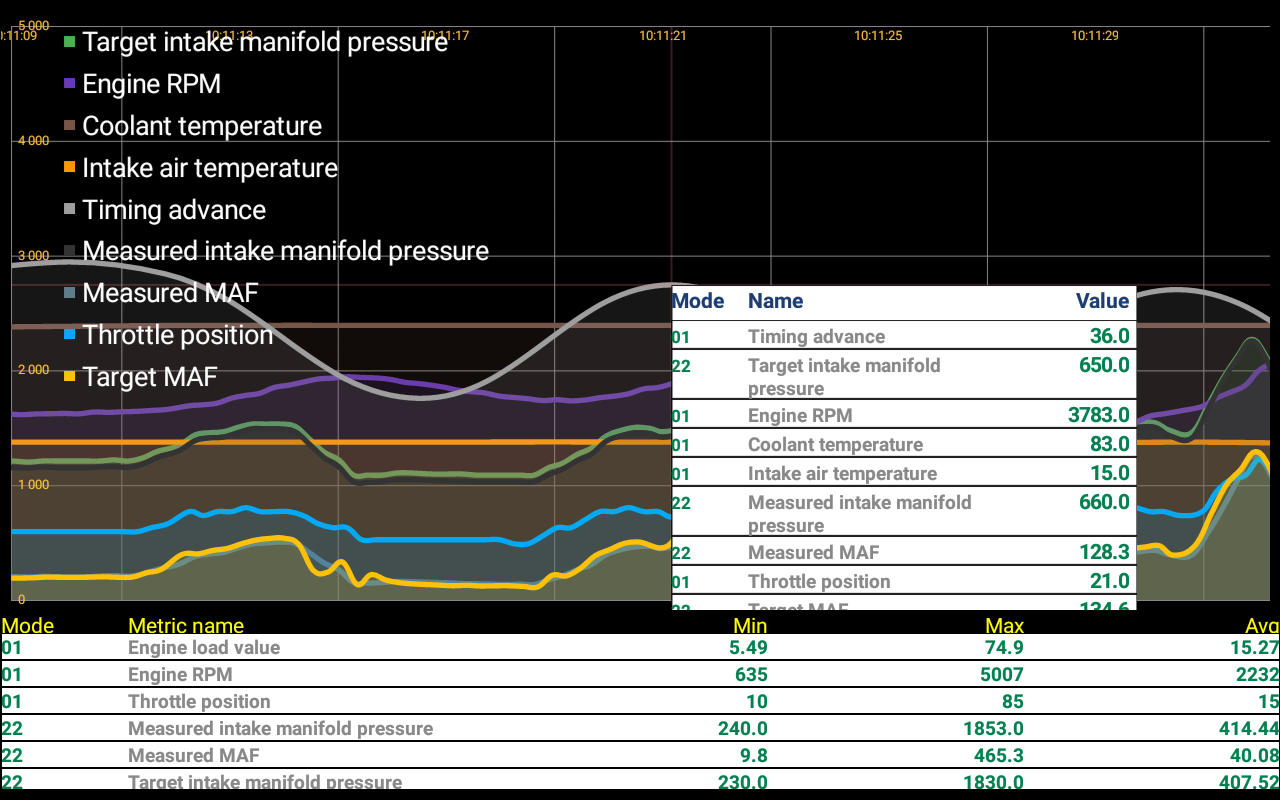
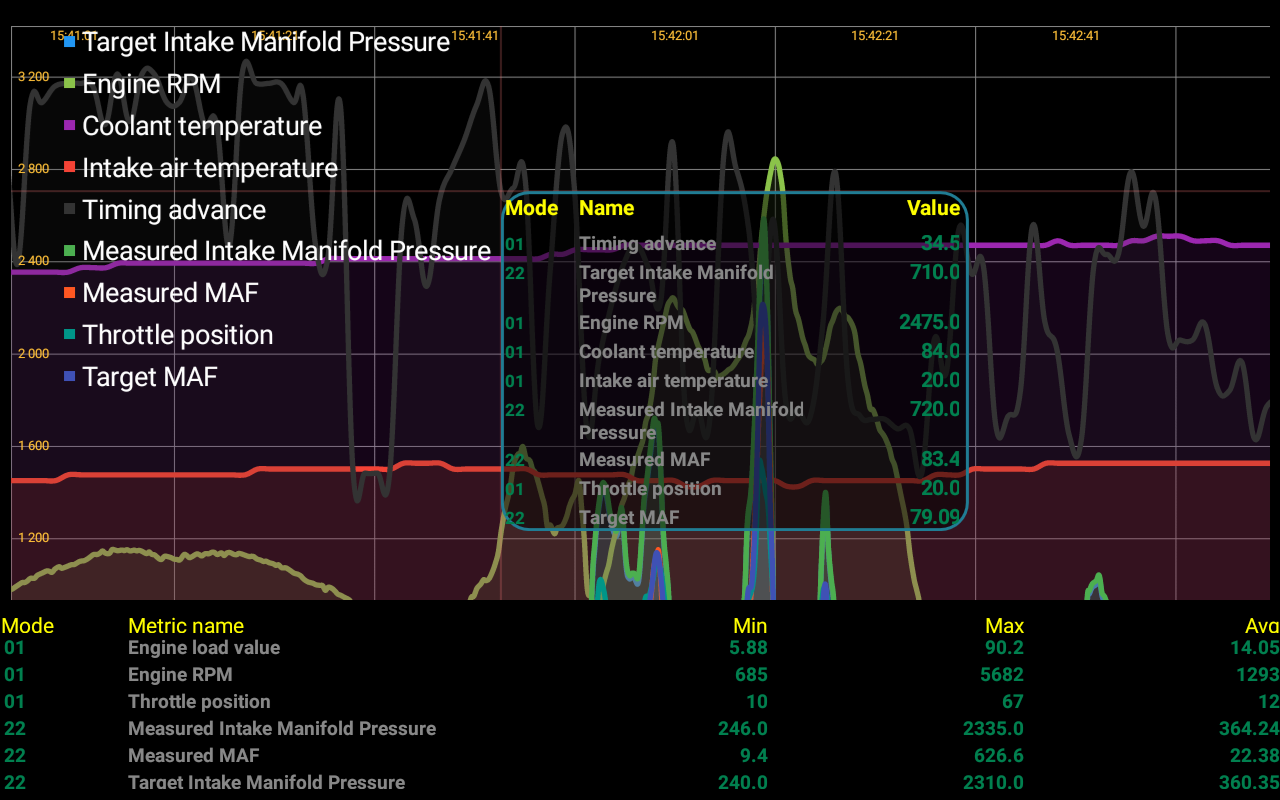
Show marker-window only when single-tap.
Add gesture detector listener which detects double-tap, and hides marker window.

diff --git a/app/src/main/java/org/openobd2/core/logger/ui/graph/GraphFragment.kt b/app/src/main/java/org/openobd2/core/logger/ui/graph/GraphFragment.kt
@@ -5,6 +5,7 @@ import android.graphics.Color
 import android.os.Bundle
 import android.util.Log
 import android.view.LayoutInflater
+import android.view.MotionEvent
 import android.view.View
 import android.view.ViewGroup
 import android.widget.LinearLayout
@@ -21,6 +22,8 @@ import com.github.mikephil.charting.data.Entry
 import com.github.mikephil.charting.data.LineData
 import com.github.mikephil.charting.data.LineDataSet
 import com.github.mikephil.charting.formatter.ValueFormatter
+import com.github.mikephil.charting.listener.ChartTouchListener.ChartGesture
+import com.github.mikephil.charting.listener.OnChartGestureListener
 import com.github.mikephil.charting.utils.ColorTemplate
 import org.obd.metrics.ObdMetric
 import org.obd.metrics.pid.PidDefinition
@@ -78,7 +81,30 @@ class GraphFragment : Fragment() {
         }
     }
 
-    private val simpleDateFormat = SimpleDateFormat("HH:mm:ss")
+    private val onGestureListener = object : OnChartGestureListener {
+        override fun onChartGestureStart(me: MotionEvent, lastPerformedGesture: ChartGesture) {}
+        override fun onChartGestureEnd(me: MotionEvent, lastPerformedGesture: ChartGesture) {
+            if (lastPerformedGesture != ChartGesture.SINGLE_TAP) {
+                chart.highlightValues(null)
+            }
+        }
+
+        override fun onChartLongPressed(me: MotionEvent) {}
+        override fun onChartDoubleTapped(me: MotionEvent) {}
+        override fun onChartSingleTapped(me: MotionEvent) {}
+        override fun onChartFling(
+            me1: MotionEvent,
+            me2: MotionEvent,
+            velocityX: Float,
+            velocityY: Float
+        ) {
+        }
+
+        override fun onChartScale(me: MotionEvent, scaleX: Float, scaleY: Float) {}
+        override fun onChartTranslate(me: MotionEvent, dX: Float, dY: Float) {}
+    }
+
+    private val simpleDateFormat = SimpleDateFormat("HH:mm:ss", Locale.getDefault())
     private lateinit var chart: LineChart
     private var colors: IntIterator = Colors().generate()
     private val valueScaler = ValueScaler()
@@ -147,13 +173,16 @@ class GraphFragment : Fragment() {
         recyclerView.adapter = tripViewAdapter
     }
 
+
     private fun initializeChart(root: View) {
         chart = buildChart(root).apply {
             val metrics = DataLogger.instance.getEmptyMetrics(preferences.selectedPids)
             data = LineData(metrics.map { createDataSet(it.command.pid) }.toList())
             setOnTouchListener(onDoubleClickListener(requireContext()))
             invalidate()
+            onChartGestureListener = onGestureListener
         }
+
     }
 
     private fun loadCurrentTrip() {
@@ -223,6 +252,7 @@ class GraphFragment : Fragment() {
             }
         }
     }
+
 
     private fun buildChart(root: View): LineChart {
         return (root.findViewById(R.id.graph_view_chart) as LineChart).apply {

diff --git a/app/src/main/java/org/openobd2/core/logger/ui/common/RecyclerItemDoubleClickListener.kt b/app/src/main/java/org/openobd2/core/logger/ui/common/RecyclerItemDoubleClickListener.kt
@@ -9,7 +9,7 @@ import androidx.recyclerview.widget.RecyclerView
 
 const val TOGGLE_TOOLBAR_ACTION: String = "TOGGLE_TOOLBAR"
 
-private class GestureListener(val context: Context) : GestureDetector.SimpleOnGestureListener() {
+class DoubleClickGestureListener(val context: Context) : GestureDetector.SimpleOnGestureListener() {
     override fun onDoubleTap(e: MotionEvent): Boolean {
         context.sendBroadcast(Intent().apply {
             action = TOGGLE_TOOLBAR_ACTION
@@ -19,7 +19,7 @@ private class GestureListener(val context: Context) : GestureDetector.SimpleOnGe
 }
 
 fun onDoubleClickListener(context: Context): View.OnTouchListener {
-    val gestureDetector = GestureDetector(context, GestureListener(context))
+    val gestureDetector = GestureDetector(context, DoubleClickGestureListener(context))
     return View.OnTouchListener { _, event ->
         gestureDetector.onTouchEvent(
             event
